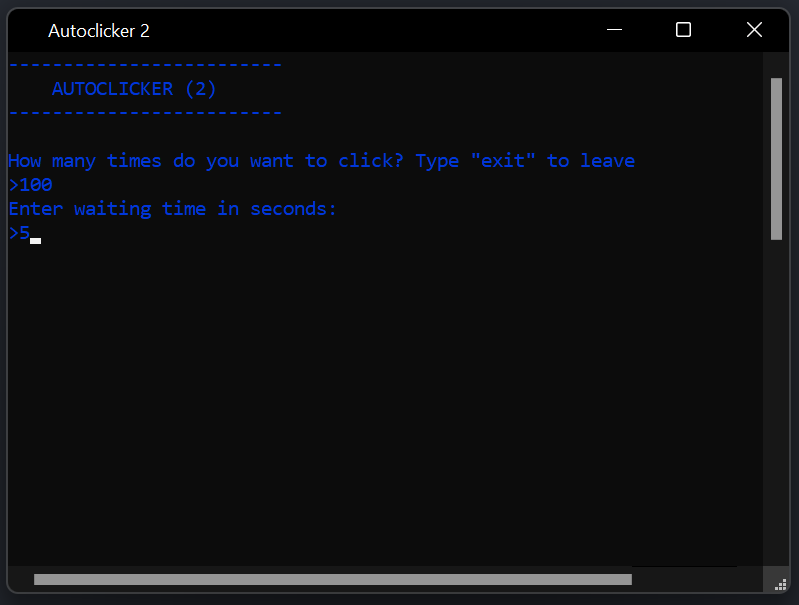
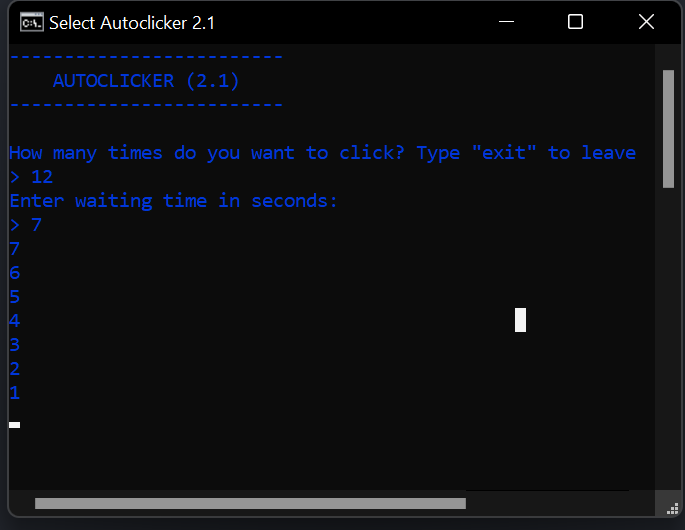
Updatded instructions and images acording to last update (2.1)

Changed region(s): [[0.0, 0.0, 1.0, 0.9962], [0.7358, 0.5736, 0.7664, 0.634], [0.3066, 0.0906, 0.3372, 0.1208]]

diff --git a/README.md b/README.md
@@ -12,10 +12,14 @@ Dedicado a cierta persona con las siglas GAGA ;)
 
 ![clicks image](./img/clicks.png)
 
-### - Enter the waiting time in seconds
+### - Enter the waiting time in seconds and wait for the program to start clicking
 #### <mark style="background-color: orange;">Please do not skip this step, as the waiting time will let you change between applications and get ready</mark>
 
 ![countdown image](./img/count.png)
+
+### Once the program stops clicking, enter "c" if you want it to close or "r" if you want it to restart.
+
+![click or restart](./img/cor.png)
 
 ### - Have fun while cheating at CPS tests!
 
